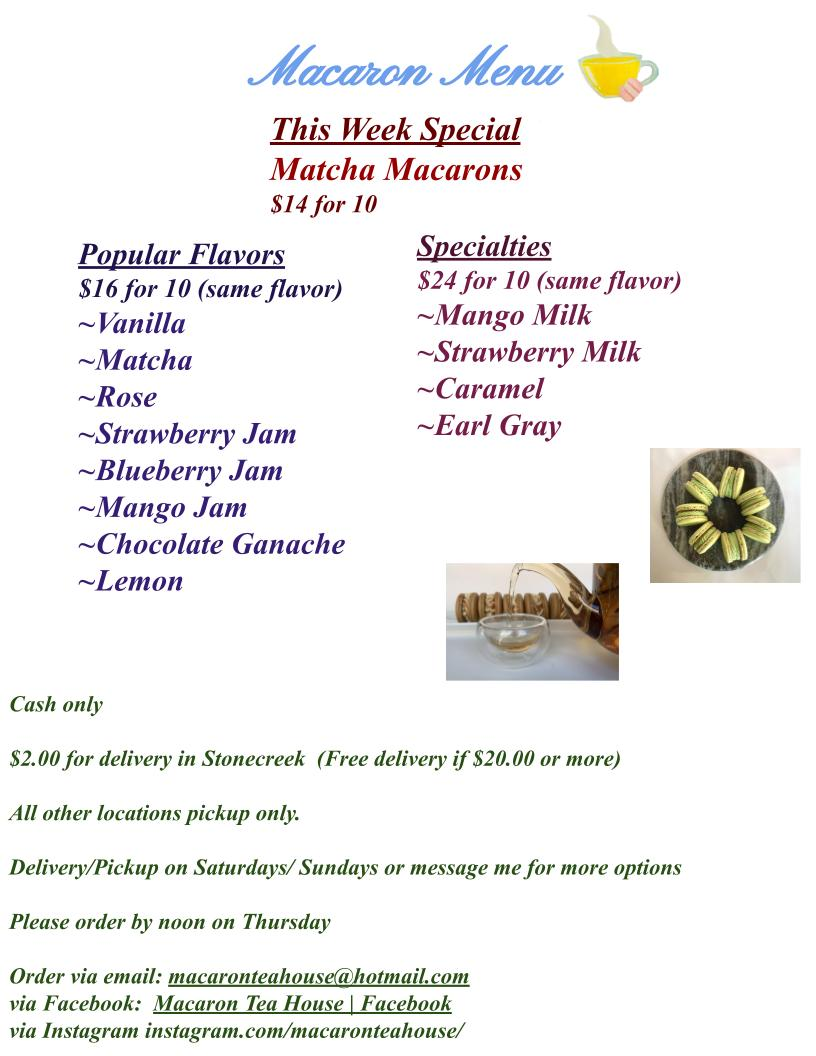
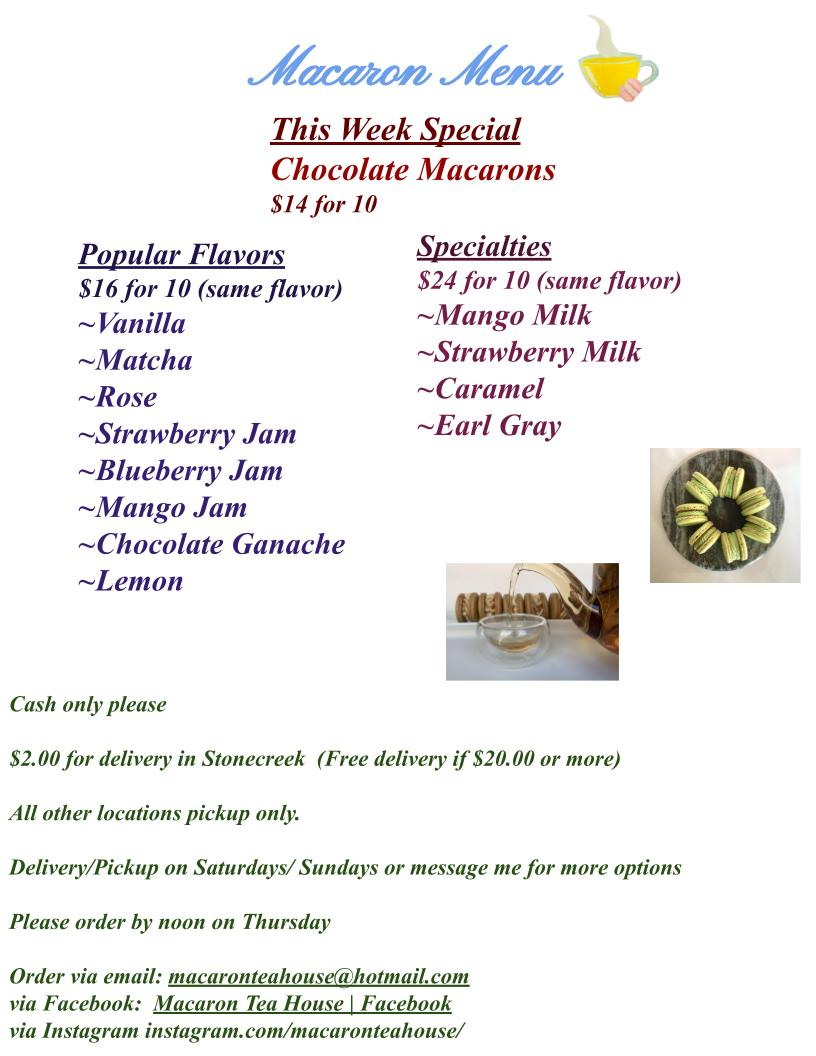
fff

Changed region(s): [[0.337, 0.125, 0.674, 0.1875], [0.1225, 0.6562, 0.2145, 0.6875]]

diff --git a/A_Special.html b/A_Special.html
@@ -63,26 +63,27 @@
 
 <body>
 <container id="title">
-	<h1> <p style="font-size:200%; width:100%"> <b> <i> Matcha Macarons </b> </i> </p> </h1>
+	<h1> <p style="font-size:200%; width:100%"> <b> <i> Chocolate Macarons </b> </i> </p> </h1>
 </container>
 <container id="info">
 	<div id="chocC">
 
-		<img src="Pictures/matcha mac.jpg" width="80%" height="auto">
+		<img src="Pictures/cmac.jpg" width="80%" height="auto">
 	</div>
 	<div id="choc">
 
-		<p style="font-size:150%;color:#05b09f" width="100%" height="auto">This macaron has a distinct matcha flavor. It has a pleasant hint of bitterness which is balanced
-			out with the sweetness in the filling. Enjoy this with a cup of warm green tea.
-			Remember to take it out of the refrigerator for 10-15 minutes before serving. $14.00 for 10 macarons.</p>
+		<p style="font-size:150%;color:#05b09f" width="100%" height="auto">This macaron has a chocolate flavored shell with a chocolate ganache.
+		The dessert is very elegant and perfect for sharing with friends and
+		family. Take out and set at room temperature for 10-15 minutes before serving.
+		$14.00 for 10 macarons</p>
 	</div>
 </container>
 <container id= "both">
 <div id= "Ingredients">
 <p style="font-size:160%; color:#000000; position:relative; width:100%; margin:auto"> <u>Ingredients</u> <br>
-	~blanched almond flour <br> ~powdered sugar <br> ~free range egg whites
-	<br> ~organic unbleached cane sugar <br> ~cream of tartar <br> ~fresh cream
-	<br> ~lemon <br> ~matcha 
+~blanched almond flour <br> ~powdered sugar <br> ~free range egg whites
+<br> ~organic unbleached cane sugar <br> ~cream of tartar
+<br> ~fresh cream <br> ~chocolate <br>
 </div>
 
 	<div id="button-4">

diff --git a/A_OtherBakedGoods.html b/A_OtherBakedGoods.html
@@ -116,7 +116,7 @@
 		</div>
 		<div id="Cookie">
 		<p> <img src="Pictures/coc.jpg" width="100%" height="auto"></p>
-		<p style="position:relative;"> <u> Brown Butter Chocolate Chip Cookies </u>($12.00 for 8) </p>
+		<p style="position:relative;"> <u> Brown Butter Chocolate Chip Cookies </u>($12.00 for 10) </p>
 		</div>
 </container>
   <container id="row-2">
@@ -136,7 +136,7 @@
 	<container id="row-3">
 		<div id="Mochi">
 		<img src="Pictures/Mochi.jpg" width="100%" height="auto">
-		<p style="position:relative;"><u> Mochi</u> ($8.00 for 10) </p>
+		<p style="position:relative;"><u> Mochi</u> ($10.00 for 12) </p>
 		</div>
 		<div id="Rollcake">
 		<img src="Pictures/Roll Cake.jpg"  width="100%" height="auto">

diff --git a/pump.html b/pump.html
@@ -72,7 +72,7 @@
 	<div id="matcha">
 		<p style="font-size:150%;color:#05b09f" width="100%" height="auto">This macaron has a distinct matcha flavor. It has a pleasant hint of bitterness which is balanced
 			out with the sweetness in the filling. Enjoy this with a cup of warm green tea.
-			Remember to take it out of the refrigerator for 10-15 minutes before serving. $14.00 for 10 macarons</p>
+			Remember to take it out of the refrigerator for 10-15 minutes before serving. $16.00 for 10 macarons</p>
 	</div>
 	</container>
 	<container id= "both">
